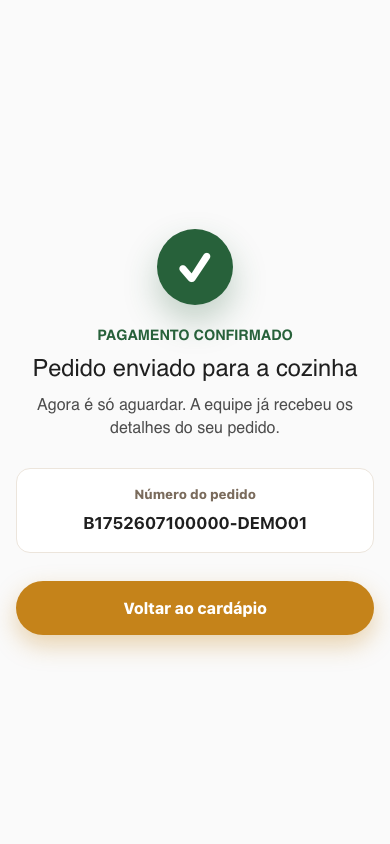
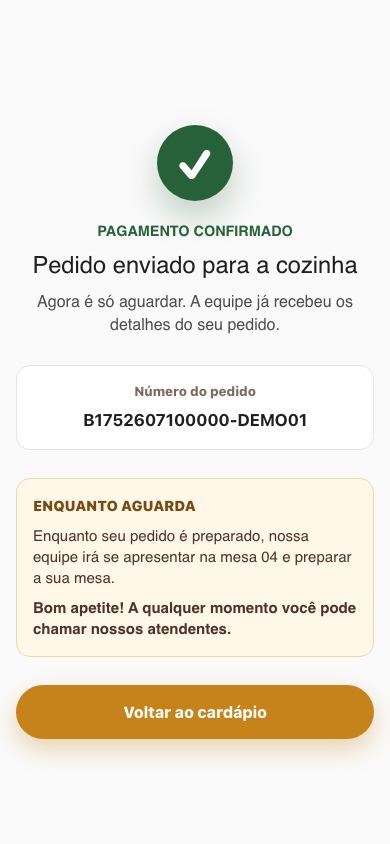
feat: add post-payment guidance

Changed region(s): [[0.0923, 0.1232, 0.9231, 0.5237], [0.0308, 0.5545, 0.9846, 0.7701], [0.0308, 0.8009, 0.9846, 0.8934]]

diff --git a/orders.js b/orders.js
@@ -54,7 +54,8 @@
         currentProduct: null,
         items: [],
         cardapioScrollY: 0,
-        paymentPollId: null
+        paymentPollId: null,
+        lastPixOrder: null
     };
 
     document.addEventListener('DOMContentLoaded', function () {
@@ -185,6 +186,7 @@
                     <span>Número do pedido</span>
                     <strong id="sucesso-order-id"></strong>
                 </div>
+                <div class="sucesso-orientacao" id="sucesso-orientacao"></div>
                 <button type="button" id="sucesso-voltar" class="sucesso-voltar">Voltar ao cardápio</button>
             </div>
         `;
@@ -601,6 +603,7 @@
         const pix = order.payment || {};
         if (!payment) return;
 
+        state.lastPixOrder = order;
         if (paginaInicial) paginaInicial.style.display = 'none';
         if (paginaCardapio) paginaCardapio.style.display = 'none';
         payment.style.display = 'block';
@@ -672,7 +675,7 @@
             const order = await response.json();
             if (['PAID', 'PRINT_REQUESTED', 'PRINTED'].includes(order.status)) {
                 stopPaymentPolling();
-                showOrderSuccess(orderId);
+                showOrderSuccess(Object.assign({}, state.lastPixOrder || {}, order));
             } else if (order.status === 'PAYMENT_EXPIRED') {
                 stopPaymentPolling();
                 setText('pix-status', 'Pix expirado');
@@ -684,23 +687,44 @@
         }
     }
 
-    function showOrderSuccess(orderId) {
+    function showOrderSuccess(order) {
         const success = document.getElementById('pagina-sucesso-pedido');
         const payment = document.getElementById('pagina-pagamento-pix');
         const detail = document.getElementById('pagina-detalhe-produto');
         const paginaCardapio = document.getElementById('pagina-cardapio');
         if (!success) return;
+        const orderData = typeof order === 'string'
+            ? Object.assign({}, state.lastPixOrder || {}, { orderId: order })
+            : Object.assign({}, state.lastPixOrder || {}, order || {});
 
         if (payment) payment.style.display = 'none';
         if (detail) detail.style.display = 'none';
         if (paginaCardapio) paginaCardapio.style.display = 'none';
-        setText('sucesso-order-id', orderId || '');
+        setText('sucesso-order-id', orderData.orderId || '');
+        renderSuccessGuidance(orderData);
         document.getElementById('pix-status')?.classList.remove('pix-status-shimmer');
         success.style.display = 'block';
         document.body.classList.remove('pagamento-pix-ativo');
         document.body.classList.remove('detalhe-produto-ativo');
         document.body.classList.add('sucesso-pedido-ativo');
         window.scrollTo(0, 0);
+    }
+
+    function renderSuccessGuidance(order) {
+        const element = document.getElementById('sucesso-orientacao');
+        if (!element) return;
+        const isTakeaway = order.consumptionType === 'TAKEAWAY';
+        const identity = isTakeaway
+            ? (order.customerName ? ` pelo nome ${escapeHtml(order.customerName)}` : ' pelo nome informado')
+            : (order.tableNumber ? ` na mesa ${escapeHtml(order.tableNumber)}` : ' na sua mesa');
+        const mainMessage = isTakeaway
+            ? `Enquanto seu pedido é preparado, nossa equipe chamará${identity} assim que estiver pronto.`
+            : `Enquanto seu pedido é preparado, nossa equipe irá se apresentar${identity} e preparar a sua mesa.`;
+        element.innerHTML = `
+            <strong>Enquanto aguarda</strong>
+            <p>${mainMessage}</p>
+            <p>Bom apetite! A qualquer momento você pode chamar nossos atendentes.</p>
+        `;
     }
 
     function setupPixOnlyNotice() {
@@ -908,7 +932,7 @@
             return;
         }
         if (step === 'sucesso') {
-            showOrderSuccess(screenshotOrder().orderId);
+            showOrderSuccess(screenshotOrder());
         }
     }
 

diff --git a/style.css b/style.css
@@ -2366,6 +2366,38 @@
       word-break: break-word;
     }
 
+    .sucesso-orientacao {
+      width: 100%;
+      margin: 0 0 28px;
+      padding: 16px;
+      border: 1px solid #f0d6a7;
+      border-radius: 14px;
+      color: #4f1b14;
+      background: #fff7e8;
+      text-align: left;
+    }
+
+    .sucesso-orientacao strong {
+      display: block;
+      margin-bottom: 8px;
+      color: #7a4a10;
+      font-size: 0.9rem;
+      font-weight: 900;
+      text-transform: uppercase;
+    }
+
+    .sucesso-orientacao p {
+      margin: 0;
+      color: #4d332b;
+      font-size: 0.94rem;
+      line-height: 1.42;
+    }
+
+    .sucesso-orientacao p + p {
+      margin-top: 8px;
+      font-weight: 800;
+    }
+
     .sucesso-voltar {
       width: 100%;
       min-height: 54px;
